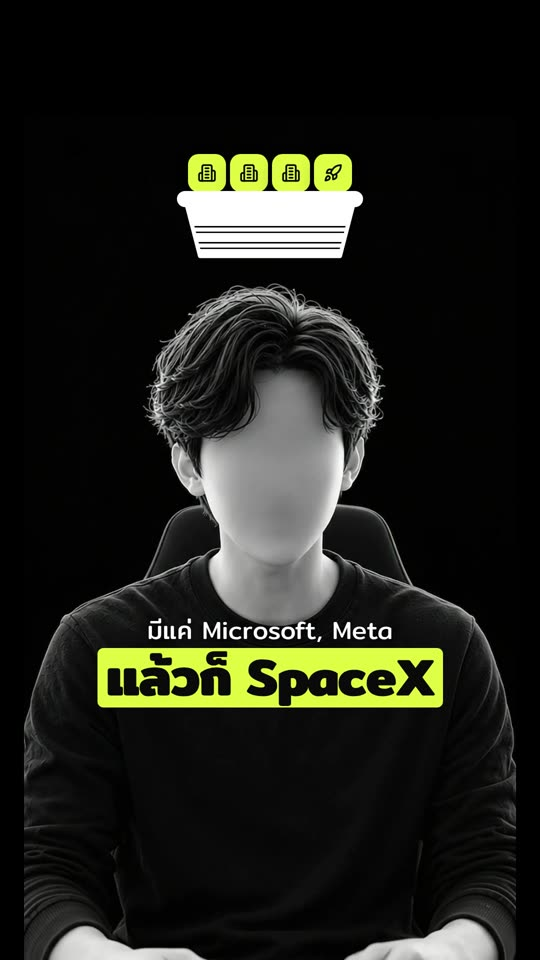
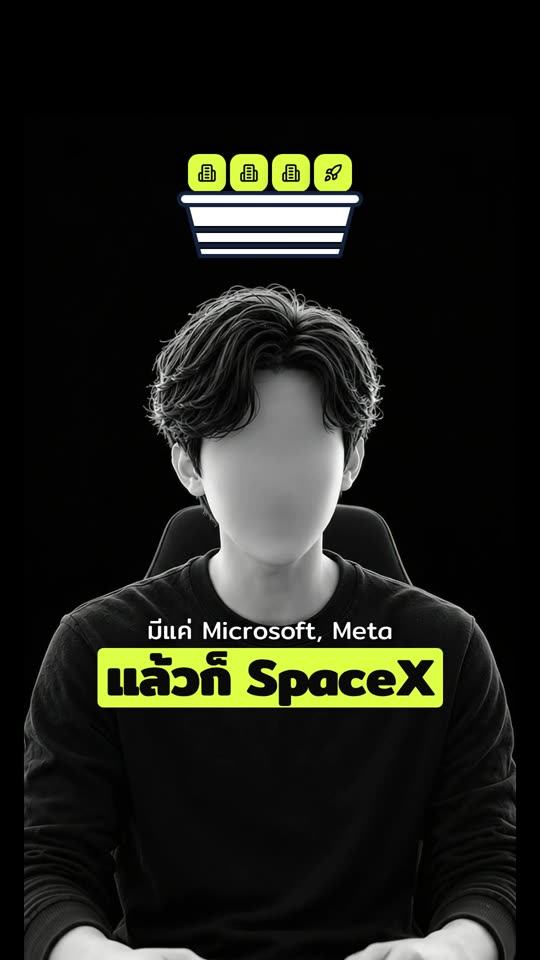
Basket: dark edges on the light body in the overlay too (--fl-edge, .u-fl-edge)
Claude-Session: https://claude.ai/code/session_01S8EfUBjASSv3yjD4ptKfop

Changed region(s): [[0.3259, 0.1875, 0.6815, 0.2812]]

diff --git a/cutpack/engine/uni/scenes/lego_r6b.js b/cutpack/engine/uni/scenes/lego_r6b.js
@@ -89,8 +89,8 @@ R3.both('B17', 'basket', 'ของหล่นลงตะกร้า', (K, s,
   const rimBar = `x="${xl(rim) - 12}" y="${rim - 10}" width="${xr(rim) - xl(rim) + 24}" height="24" rx="12"`;
   const front = div('left:0;top:0;width:600px;height:340px', grp, `<svg width="600" height="340" style="overflow:visible">` +
     `<path class="fl" style="stroke:none" d="${band(0, 56)}${band(70, 88)}${band(102, H)}"/>` +
-    `<path class="ln u-thin" d="${slot(63)}${slot(95)}${body}"/>` +
-    `<rect class="fl" style="stroke:none" ${rimBar}/><rect class="ln u-thin" ${rimBar}/></svg>`);
+    `<path class="u-fl-edge" d="${slot(63)}${slot(95)}${body}"/>` +
+    `<rect class="fl" style="stroke:none" ${rimBar}/><rect class="u-fl-edge" ${rimBar}/></svg>`);   // edges of the light body: dark in the overlay too
   K.enter(front, T.b[0], 'rise');
   K.punch(grp, T.hit);
   items.forEach((b, i) => A(b.p, [{transform: 'none'}, {transform: 'translateY(-36px)', offset: .4}, {transform: 'none'}], T.hit + i * .06, .5, {e: 'ease-out', f: 'none'}));

diff --git a/cutpack/engine/uni/base.css b/cutpack/engine/uni/base.css
@@ -53,6 +53,9 @@ svg{overflow:visible}
 .u-ring{fill:none;stroke:var(--tr);stroke-width:var(--ring-w, 40)}
 .u-ring-edge{fill:none;stroke:var(--ac-line, var(--ac));stroke-width:calc(var(--ring-w, 40) + 2 * var(--lw-ac, 0));stroke-linecap:round}
 .u-ring-on{fill:none;stroke:var(--ac);stroke-width:var(--ring-w, 40);stroke-linecap:round}
+/* the edge of a light (fl) thing, drawn as its own line: it must show on the light thing in every palette, so a palette whose
+   own lines are white (the card style on the video) gives a dark --fl-edge (Friend 2026-11-10: the basket's edges in the overlay) */
+.u-fl-edge{fill:none;stroke:var(--fl-edge, var(--fl-line, var(--ink)));stroke-width:calc(var(--lw) * .55);stroke-linecap:round;stroke-linejoin:round}
 /* a line in the accent colour (a pen loop); a style whose accent is see-through gives a solid one in --ac-stroke */
 .u-acc-line{fill:none;stroke:var(--ac-stroke, var(--ac));stroke-linecap:round}
 .u-dash{stroke-dasharray:14 16}

diff --git a/cutpack/engine/uni/styles/card.js b/cutpack/engine/uni/styles/card.js
@@ -15,7 +15,7 @@ STYLE('card', {
 .c-card{opacity:0}
 .c-light{--ink:#14213D;--lw:15;--sd:#14213D;--fl:#FFFFFF;--fl-line:#14213D;--lw-fl:12;--ac:#DDFF45;--ac-line:#14213D;--lw-ac:12;
   --tr:rgba(20,33,61,.12);--neg:#E5484D;--slot-line:rgba(20,33,61,.35);--ico-w:2.2;--tile-r:.28;--box-r:.26;--text:#14213D}
-.c-dark{--ink:#FFFFFF;--lw:15;--sd:#FFFFFF;--fl:#FFFFFF;--fl-line:#FFFFFF;--lw-fl:0;--ac:#DDFF45;--ac-line:#DDFF45;--lw-ac:0;
+.c-dark{--ink:#FFFFFF;--lw:15;--sd:#FFFFFF;--fl:#FFFFFF;--fl-line:#FFFFFF;--lw-fl:0;--fl-edge:#14213D;--ac:#DDFF45;--ac-line:#DDFF45;--lw-ac:0;
   --tr:rgba(255,255,255,.14);--neg:#FF5A5F;--slot-line:rgba(255,255,255,.4);--ico-w:2.2;--tile-r:.28;--box-r:.26;--text:#FFFFFF}
 .c-light{--halo:rgba(20,33,61,.09);--num:#14213D}.c-dark .u-num{color:#DDFF45}.c-dark{--halo:rgba(221,255,69,.42)}
 .c-dark .u-chip.u-main{background:#FFFFFF;color:#050505}.c-light .u-chip.u-main{background:#14213D;color:#FFFFFF}

diff --git a/cutpack/LESSONS.md b/cutpack/LESSONS.md
@@ -94,6 +94,7 @@ Friend สั่งไว้ (2026-11-08): "จดข้อผิดพลาด
 | "แล้วจะใส่ขอบให้วงเพื่อ?" (วงปากกาสีเขียว) | Friend ขอแค่ให้วงเป็นสีเขียว Claude ใส่ขอบเข้มเพิ่มเองเพราะกลัวสีเขียวบนกระดาษขาวมองยาก วงเลยหนาและหนักเกินไป | ทำเฉพาะที่ Friend ขอ ถ้ากลัวว่าจะมีปัญหา ให้บอกปัญหาพร้อมภาพก่อน อย่าเพิ่มของที่ไม่ได้ขอ · เส้นสีเน้นใช้ `.u-acc-line` (สไตล์ที่สีเน้นโปร่งแสงให้ `--ac-stroke` สีทึบ เช่น กระจก) |
 | "อ่าว ยังไม่เห็นแก้เลย" (ขอบตะกร้าในสไตล์การ์ด) | ใส่ขอบแล้ว แต่ขอบเป็นสีกรมท่าเหมือนตัวตะกร้า จึงมองไม่เห็นว่ามีขอบ แล้วบอก Friend ว่าแก้แล้ว | ขอบต้องสีต่างจากตัวของ (ตัวของสีอ่อน `fl` + ขอบเข้ม `ln`) · ก่อนบอกว่าแก้แล้ว ดูภาพจริงว่าสิ่งที่ Friend ขอ "มองเห็น" ไม่ใช่แค่ "มีในโค้ด" |
 | "ดูเรื่องเส้นซ้อนกันของสไตล์ 2" / "เส้นที่ขอบตะกร้าอะ" | ในกระจก ไอคอนในตะกร้าวงกลมซ้อนกันและอยู่หลังขอบปาก เส้นจึงพาดผ่าน · เส้นขอบบนของตัวตะกร้าวิ่งอยู่ในขอบปากที่โปร่งใส เห็นเป็นสองเส้น | ของที่วางเรียงกันเว้นระยะไม่ให้ซ้อน · ในสไตล์ที่ของโปร่งใส อย่าให้เส้นของชิ้นหนึ่งวิ่งผ่านใต้อีกชิ้น ตัดเส้นตรงที่ถูกบังออก |
+| "ทำไมไม่แก้ของ overlay ด้วยล่ะ" (ขอบตะกร้าในร่างเล็กการ์ด) | แก้ขอบตะกร้าแล้วดูแค่การ์ดเต็มจอ ร่างเล็กวางบนวิดีโอใช้ชุดสีพื้นมืดที่เส้นเป็นสีขาว ขอบจึงหายบนตะกร้าสีขาว | แก้ร่างไหน ดูผลครบ 6 สไตล์ทุกครั้งก่อนบอก Friend รวมร่างเล็ก · ขอบของของสีอ่อนใช้ `.u-fl-edge` (ชุดสีที่เส้นเป็นสีขาวให้ `--fl-edge` สีเข้ม) |
 - กฎรวม: ก่อนส่ง ดูภาพทีละเฟรม (ห่าง 0.1–0.2 วินาที) รอบทุกจังหวะสำคัญ ครบ 6 สไตล์ ภาพปกภาพเดียวไม่พอ เพราะจุดผิดข้างบนเกือบทั้งหมดเป็นเรื่องจังหวะและการเคลื่อนไหว
 
 **32. ไอคอนเปลี่ยนสีด้วยการจางไขว้ แล้วไอคอนหายแวบหนึ่ง** (เจอเองตอนทำ B14 รอบที่ 4, 2026-11-08)
